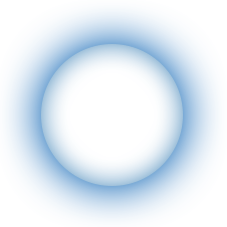
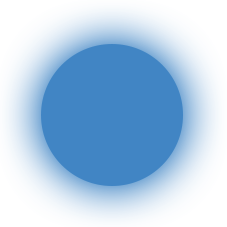
new glow and no point in finger

diff --git a/src/trxHarvester.cpp b/src/trxHarvester.cpp
@@ -112,8 +112,8 @@ void trxHarvester::draw(){
         
         ofSetColor(255, 255, 255, 30);
         ofCircle(0,0,radius);
-        ofSetColor(255, 255, 255, 50);
-        ofCircle(0, 0, 10);
+        //ofSetColor(255, 255, 255, 50);
+        //ofCircle(0, 0, 10);
         ofSetColor(255, 255, 255,255);
         
         ofNoFill();
